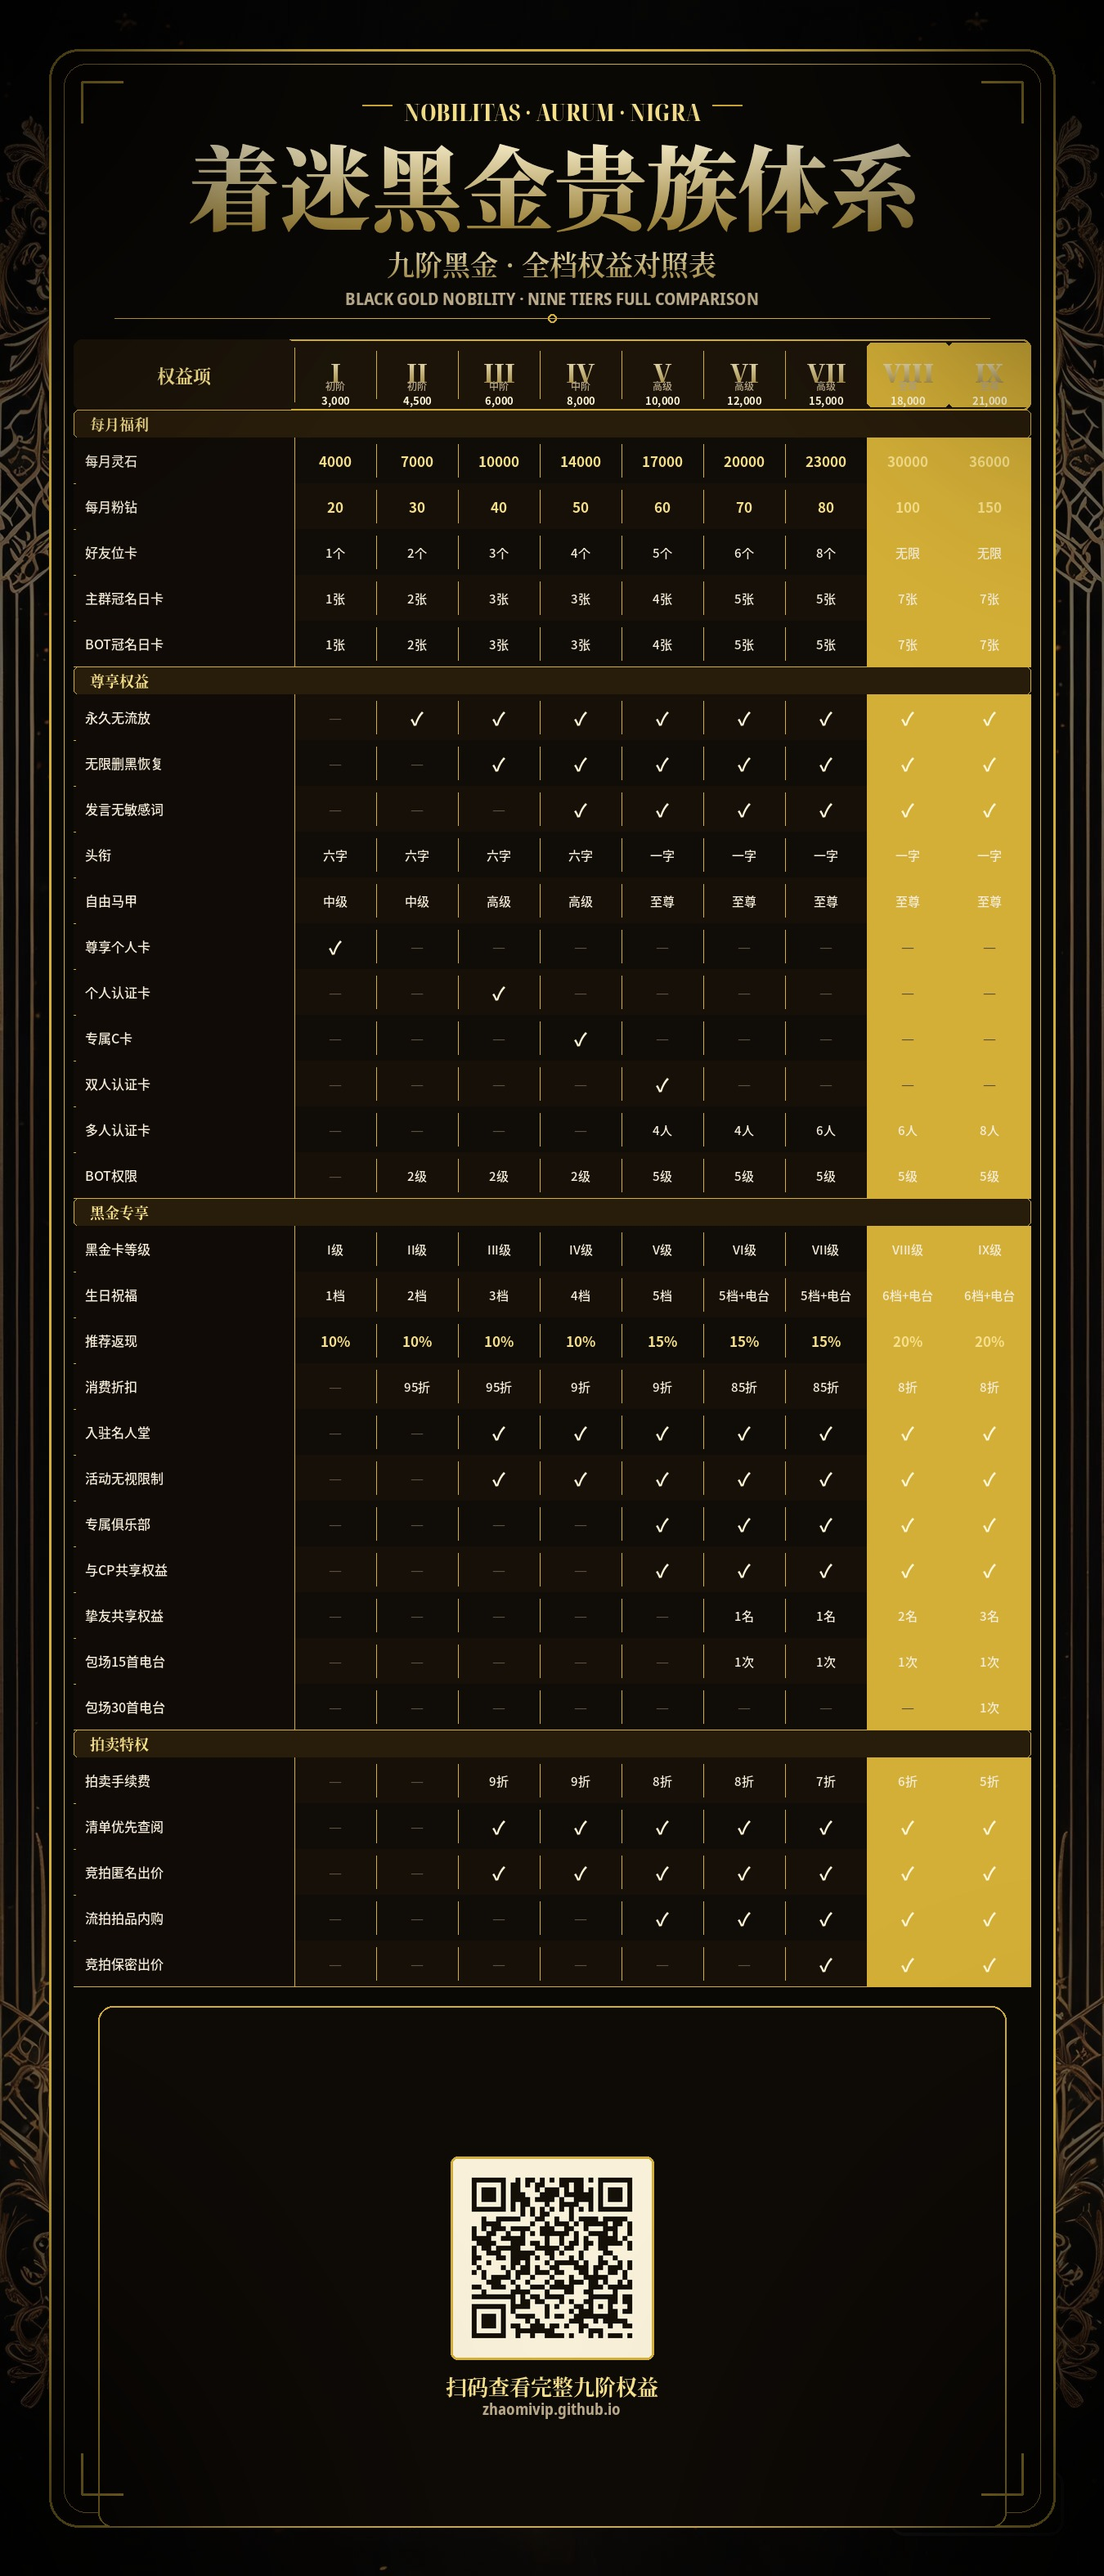
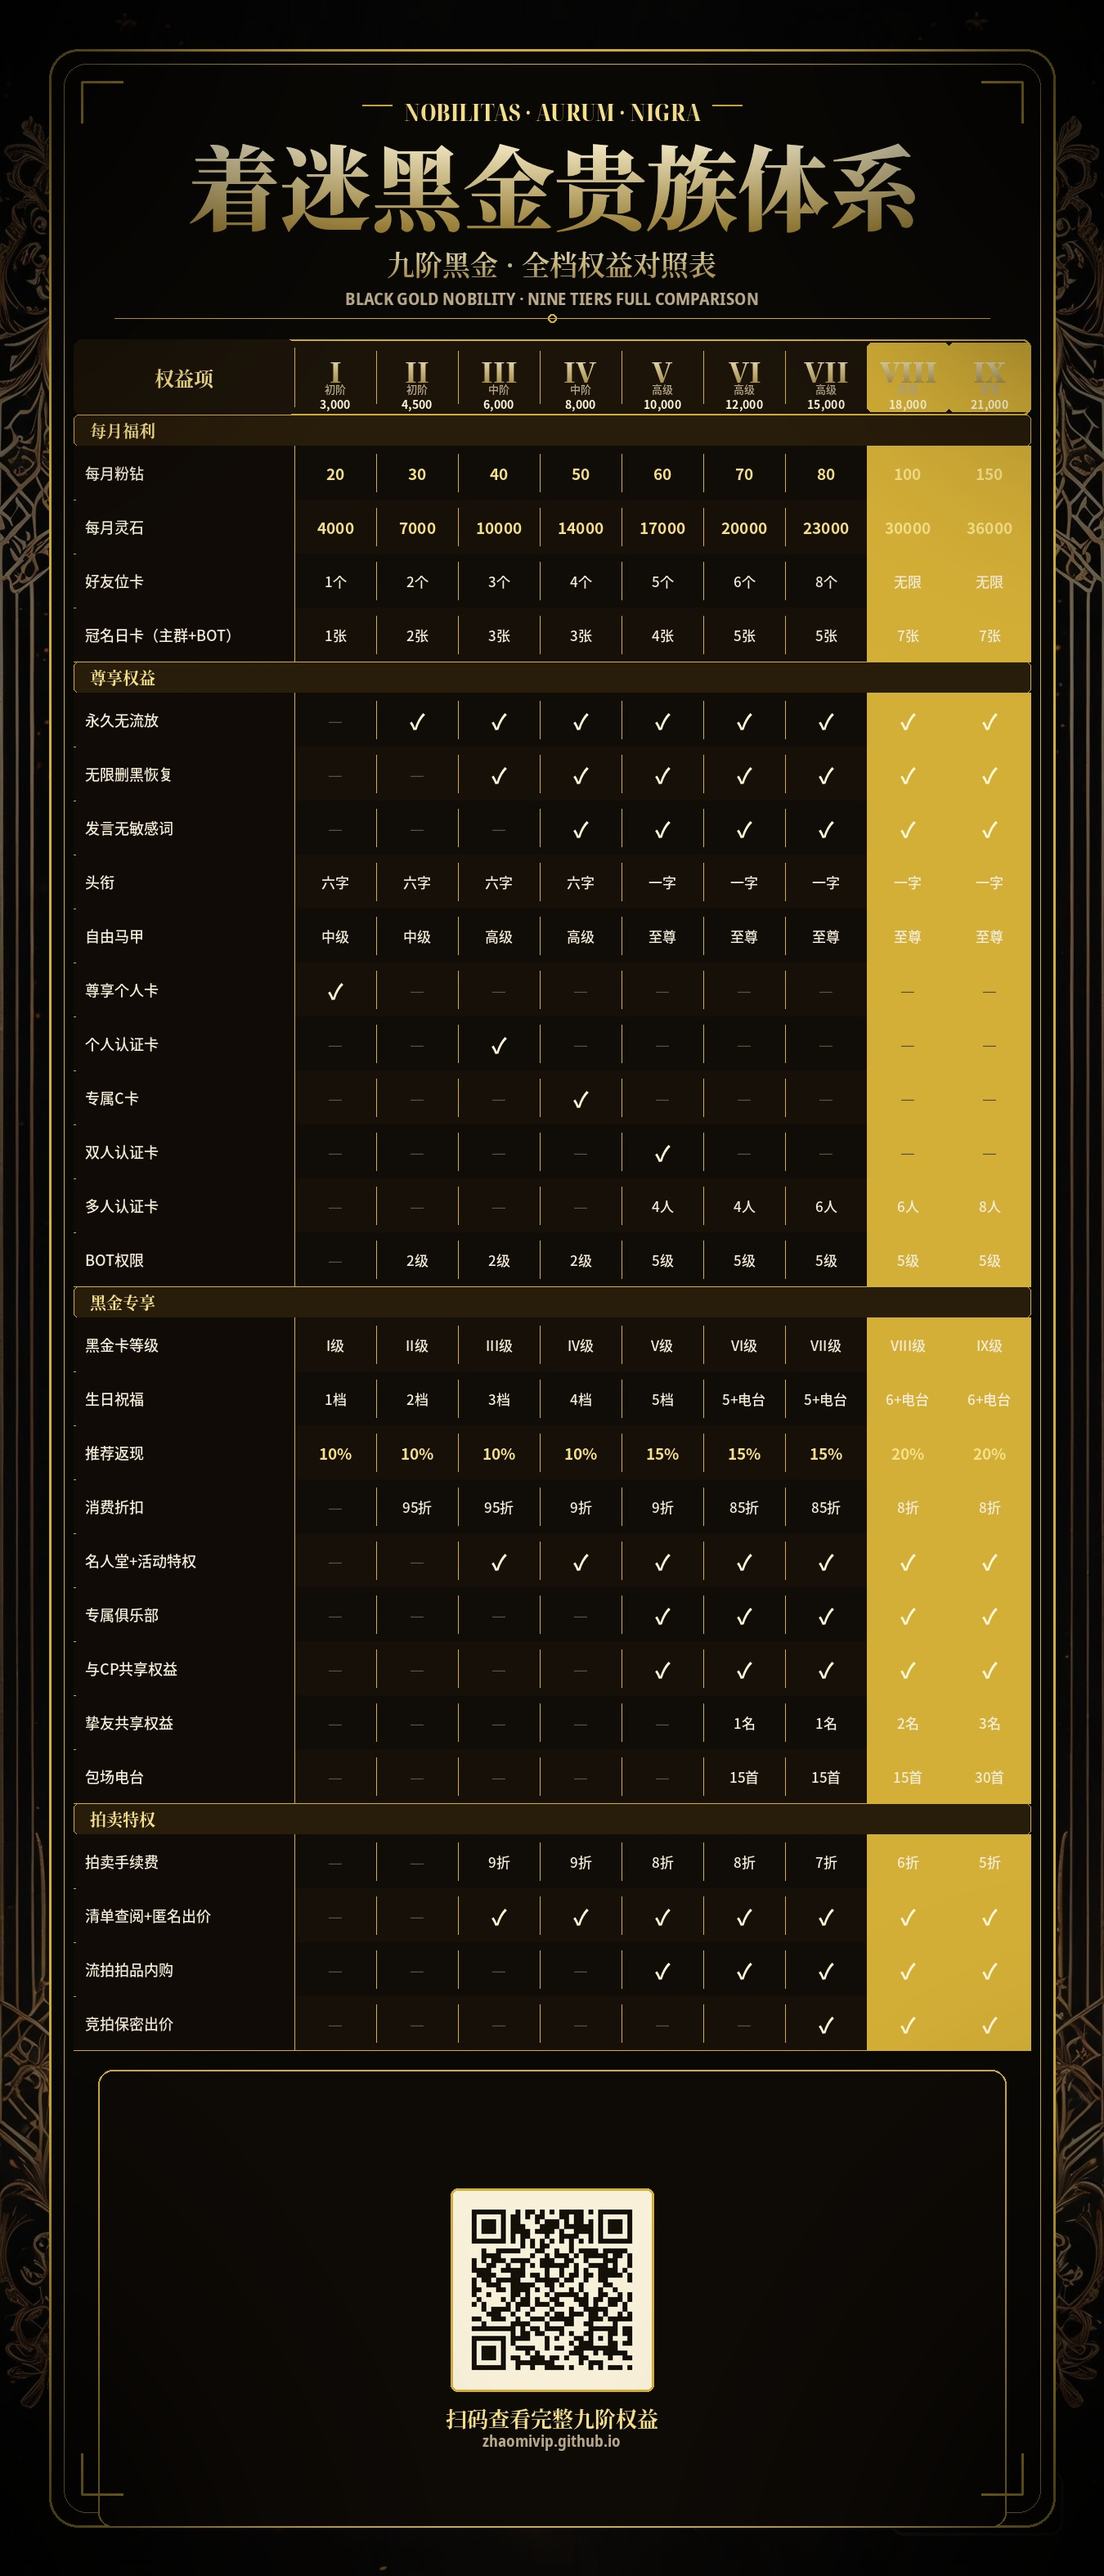
页面：粉钻灵石互换+分类标题左栏固定；海报：权益合并+字体放大

diff --git a/index.html b/index.html
@@ -73,9 +73,14 @@ th.label,td.label{position:sticky;left:0;z-index:4;background:#100b06;padding:3p
 thead th.label{z-index:7;background:#1c1409;font-size:11px}
 
 /* 类别行 */
-tbody tr.cat td{
-  background:linear-gradient(90deg,rgba(40,28,10,.95),rgba(18,12,6,.92));
+tbody tr.cat td.cat-label{
+  position:sticky;left:0;z-index:3;
+  background:linear-gradient(90deg,rgba(40,28,10,.98),rgba(30,21,8,.96));
   padding:3px 10px;font-family:var(--serif);font-weight:700;color:var(--gold-bright);font-size:11px;letter-spacing:.1em;line-height:1.2;
+  border-top:1px solid var(--gold-line-strong);border-bottom:1px solid var(--gold-line-strong);
+}
+tbody tr.cat td.cat-empty{
+  background:linear-gradient(90deg,rgba(30,21,8,.85),rgba(18,12,6,.85));
   border-top:1px solid var(--gold-line-strong);border-bottom:1px solid var(--gold-line-strong);
 }
 tbody tr.cat td .ce{font-family:var(--latin);font-size:7.5px;color:var(--muted);letter-spacing:.25em;margin-left:6px;font-weight:400}
@@ -142,8 +147,8 @@ const TIERS=[
   {id:'IX',wealth:21000,group:'至尊'},
 ];
 const BENEFITS=[
-  {cat:'每月福利',catEn:'MONTHLY',item:'每月灵石',vals:['4000','7000','10000','14000','17000','20000','23000','30000','36000'],kind:'num'},
   {cat:'每月福利',catEn:'MONTHLY',item:'每月粉钻',vals:['20','30','40','50','60','70','80','100','150'],kind:'num'},
+  {cat:'每月福利',catEn:'MONTHLY',item:'每月灵石',vals:['4000','7000','10000','14000','17000','20000','23000','30000','36000'],kind:'num'},
   {cat:'每月福利',catEn:'MONTHLY',item:'好友位卡',vals:['1个','2个','3个','4个','5个','6个','8个','无限制','无限制'],kind:'txt'},
   {cat:'每月福利',catEn:'MONTHLY',item:'平日主群冠名1日卡',vals:['1张','2张','3张','3张','4张','5张','5张','7张','7张'],kind:'txt'},
   {cat:'每月福利',catEn:'MONTHLY',item:'平日BOT冠名1日卡',vals:['1张','2张','3张','3张','4张','5张','5张','7张','7张'],kind:'txt'},
@@ -190,7 +195,7 @@ html+='</tr></thead><tbody>';
 let prevCat=null;
 BENEFITS.forEach(b=>{
   if(b.cat!==prevCat){
-    html+=`<tr class="cat"><td colspan="${TIERS.length+1}">${b.cat}<span class="ce">${b.catEn}</span></td></tr>`;
+    html+=`<tr class="cat"><td class="cat-label">${b.cat}<span class="ce">${b.catEn}</span></td><td colspan="${TIERS.length}" class="cat-empty"></td></tr>`;
     prevCat=b.cat;
   }
   html+=`<tr class="row"><td class="label">${b.item}</td>`;
